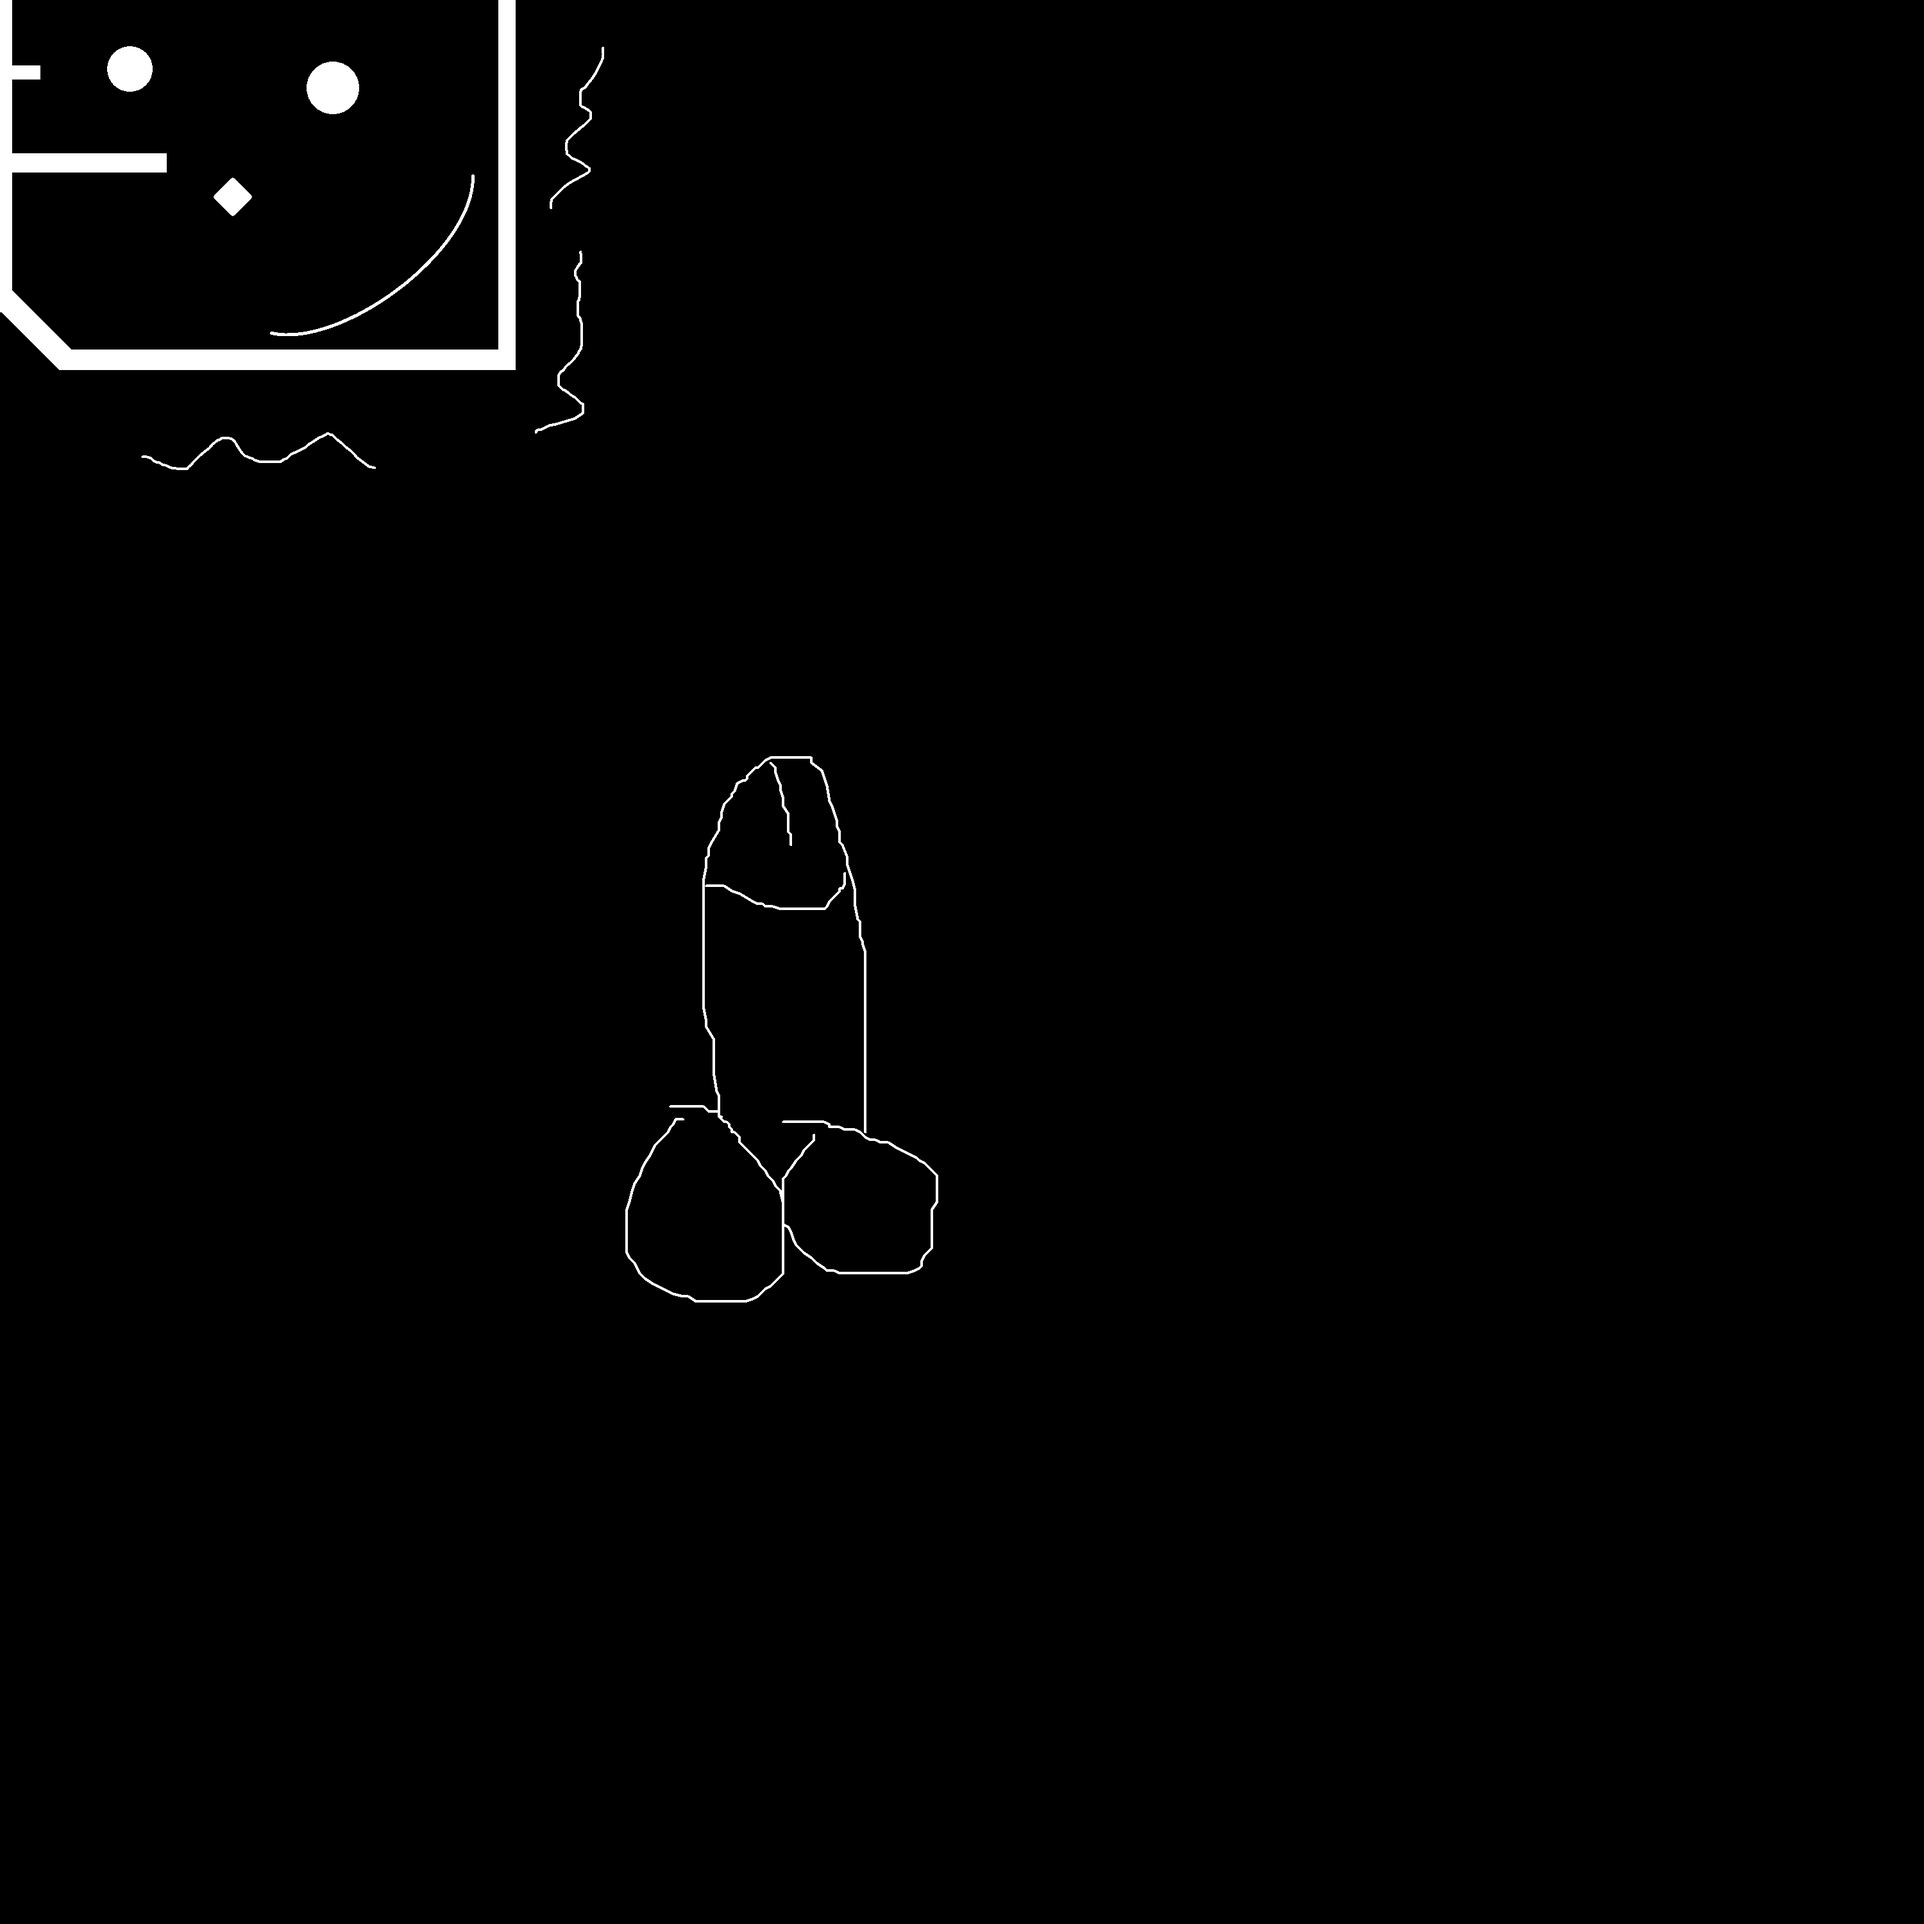
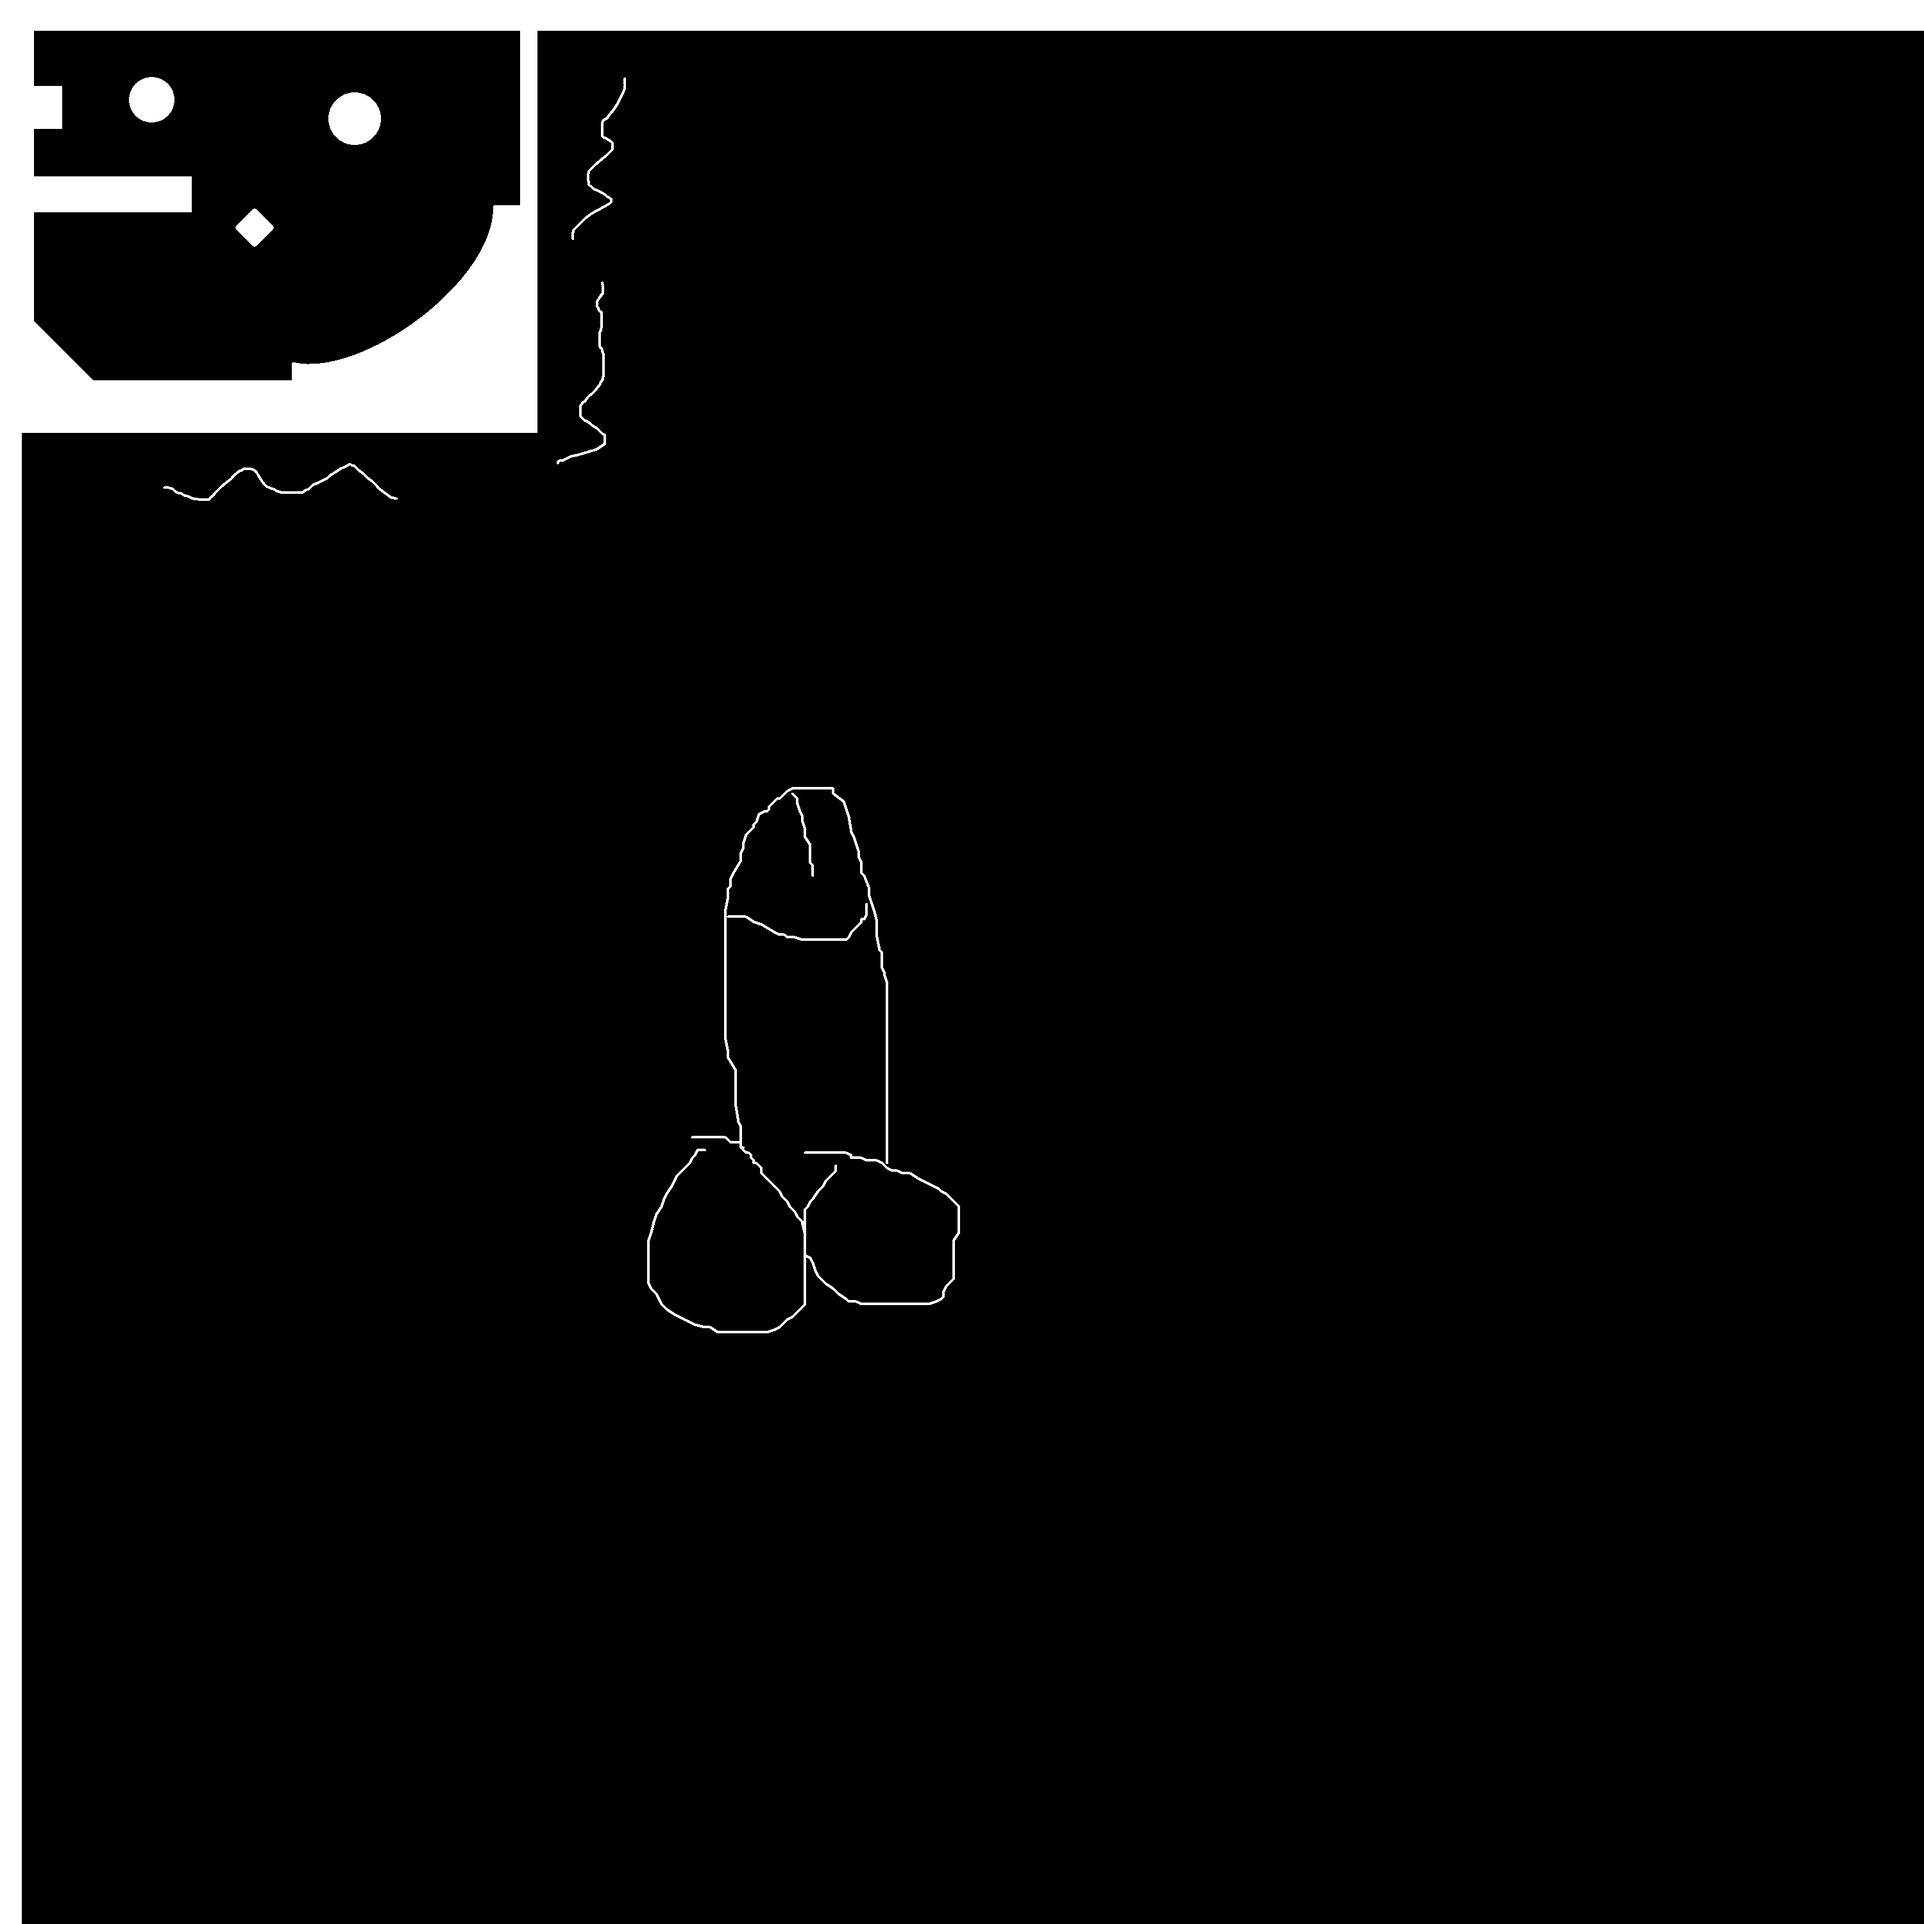
improved camera

diff --git a/grenadudes/ball_entity.cpp b/grenadudes/ball_entity.cpp
@@ -71,9 +71,11 @@ void EntityBall::draw(sf::RenderWindow &window) {
 
 void EntityBall::tick(std::vector<Entity*> &entities) {
     // centre camera
-    sf::Vector2f screenSize((float)WINDOW_WIDTH, (float)WINDOW_HEIGHT);
-    sf::Vector2f delta = (position - screenSize / 2.f) - world->camera;
-    world->camera += delta * 0.05f;
+    if (!world->is_paused()) {
+        sf::Vector2f screenSize((float)WINDOW_WIDTH, (float)WINDOW_HEIGHT);
+        sf::Vector2f delta = (position - screenSize / 2.f) - world->camera;
+        world->camera += delta * 0.05f;
+    }
 
     // move
     sf::Vector2f oldPos = position;
@@ -109,11 +111,11 @@ void EntityBall::tick(std::vector<Entity*> &entities) {
             float impactSpeed = util::len(velocity);
             if (impactSpeed < 0.62f) impactSpeed = 0.f;
             sf::Vector2f impactDirection = util::normalize(velocity);
-            position -= velocity * 1.1f; // move out of collision
             // calculate vectors
             sf::Vector2f normal = util::normalize(terrain->get_normal(contact));
             sf::Vector2f reflect = impactDirection - 2.f * normal * (util::dot(impactDirection, normal));
             sf::Vector2f bounce = sf::Vector2f();
+            position += normal * (collisionRadius - util::len(position - contact)); // move out of collision
             if (impactSpeed > 0.2f && impactSpeed < 3.1f) { // bounce a little
                 bounce = reflect * impactSpeed * .6f;
             }

diff --git a/grenadudes/play_state.cpp b/grenadudes/play_state.cpp
@@ -34,8 +34,6 @@ void StatePlay::on_tick() {
         notify(EVENT_WIND_CHANGE, (void*)&world->wind);
         windClock.restart();
     }
-    world->camera.x += 0.4f;
-    world->camera.y += 0.4f;
 }
 
 void StatePlay::on_draw(sf::RenderWindow &window) {
@@ -45,7 +43,7 @@ void StatePlay::on_draw(sf::RenderWindow &window) {
         sf::Vector2f mouse;
         mouse.x = (float)mouseI.x;
         mouse.y = (float)mouseI.y;
-        sf::Vector2f normal = terrain->get_normal(mouse);
+        sf::Vector2f normal = terrain->get_normal(mouse + world->camera);
         draw_vector(mouse, normal, 50.f, sf::Color::Yellow, window);
     }
 }

diff --git a/grenadudes/terrain_entity.cpp b/grenadudes/terrain_entity.cpp
@@ -145,7 +145,7 @@ sf::Vector2f EntityTerrain::get_normal_ground(sf::Vector2f pos) {
 bool EntityTerrain::intersects_with_circle(sf::Vector2f pos, sf::Vector2f vel, float rad, sf::Vector2f *contact) {
     // broad phase
     bool intersects = false;
-    int divisions = 8;
+    int divisions = 16;
     sf::Vector2f contactBroad;
     float deltaAngle = (2.f * (float)M_PI) / (float)divisions;
     for (int i=0; i<divisions; ++i) {

diff --git a/grenadudes/world.h b/grenadudes/world.h
@@ -33,6 +33,7 @@ public:
     sf::Vector2f gravity;
     sf::Vector2f wind;
     sf::Vector2f camera;
+    bool is_paused();
 private:
     sf::RenderWindow *window;
     std::vector<Entity*> entities;

diff --git a/grenadudes/world.cpp b/grenadudes/world.cpp
@@ -107,3 +107,7 @@ void World::toggle_pause() {
 
 void World::on_notify(Event event, void *data) {
 }
+
+bool World::is_paused() {
+    return paused;
+}
